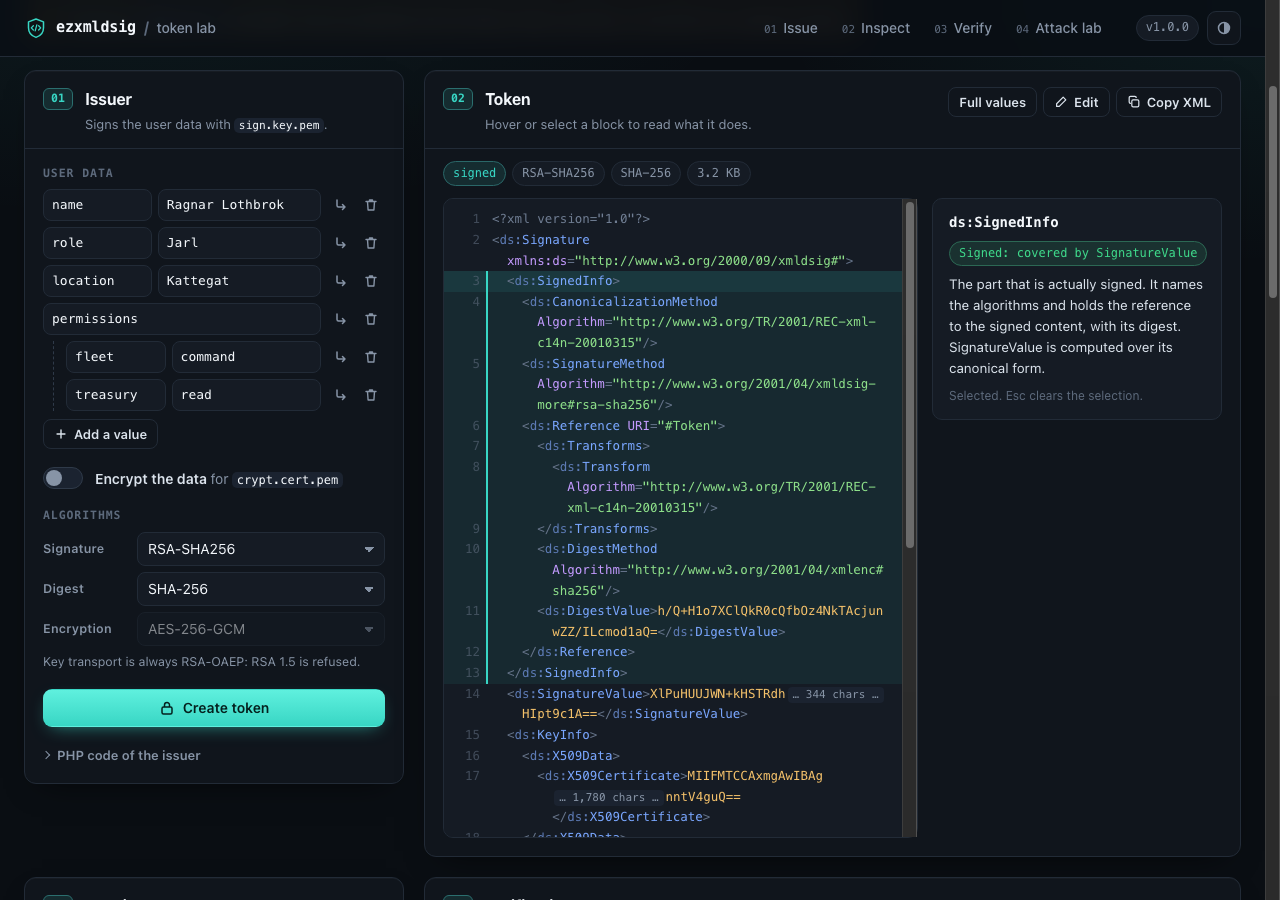
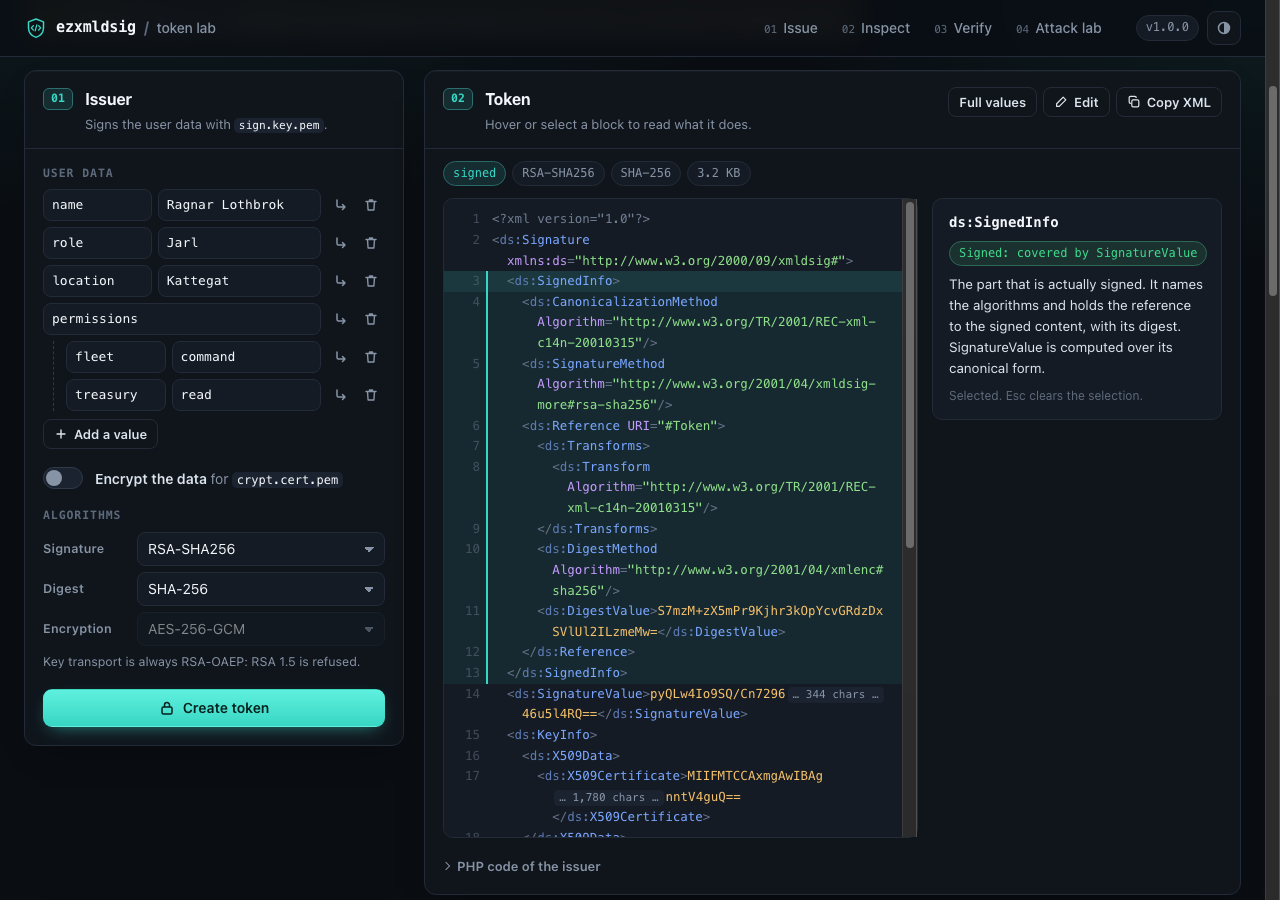
Show the PHP code of the issuer under the token in the demo
The collapsible PHP code of the issuer moves from the Issuer panel to the
Token panel, below the XML it produced. It now changes only when a token is
created, so it always matches the displayed token; the live preview while
editing the form, and the unused POST /api/issuer-code endpoint, are removed.
The screenshot is regenerated.

diff --git a/demo/public/app.js b/demo/public/app.js
@@ -268,7 +268,7 @@
     list.forEach(function (entry) {
       const keyInput = el('input', {
         attrs: { type: 'text', name: 'key-' + entry.id, value: entry.key, 'aria-label': 'Key', autocomplete: 'off', spellcheck: 'false' },
-        on: { input: function () { entry.key = keyInput.value; onDataChange(); } }
+        on: { input: function () { entry.key = keyInput.value; } }
       });
       const row = el('div', { class: 'data-row' + (entry.children ? ' is-group' : '') }, [
         el('div', { class: 'data-key' }, [keyInput])
@@ -276,7 +276,7 @@
       if (!entry.children) {
         const valueInput = el('input', {
           attrs: { type: 'text', name: 'value-' + entry.id, value: entry.value, 'aria-label': 'Value of ' + (entry.key || 'this key'), autocomplete: 'off', spellcheck: 'false' },
-          on: { input: function () { entry.value = valueInput.value; onDataChange(); } }
+          on: { input: function () { entry.value = valueInput.value; } }
         });
         row.appendChild(el('div', { class: 'data-value' }, [valueInput]));
       }
@@ -288,7 +288,6 @@
             if (!entry.children) entry.children = [];
             entry.children.push({ id: ++entryCounter, key: 'key' + (entry.children.length + 1), value: 'value', children: null });
             renderDataEditor();
-            onDataChange();
           }
         }
       }, [icon('child')]);
@@ -305,7 +304,6 @@
               found.parent.value = 'value';
             }
             renderDataEditor();
-            onDataChange();
           }
         }
       }, [icon('trash')]);
@@ -339,20 +337,6 @@
     const box = $('issuer-error');
     box.textContent = message || '';
     box.hidden = !message;
-  }
-
-  const refreshIssuerCode = debounce(async function () {
-    try {
-      const result = await api('/api/issuer-code', issuerInput());
-      renderPhp($('issuer-code'), result.code);
-      showIssuerError(null);
-    } catch (e) {
-      showIssuerError(e.message);
-    }
-  }, 250);
-
-  function onDataChange() {
-    refreshIssuerCode();
   }
 
   function syncEncryptionSelect() {
@@ -1463,12 +1447,10 @@
         refreshReceiverCode();
       }
       updateAlgoHint();
-      refreshIssuerCode();
     });
     $('add-field').addEventListener('click', function () {
       entries.push({ id: ++entryCounter, key: 'key' + (entries.length + 1), value: 'value', children: null });
       renderDataEditor();
-      onDataChange();
       const inputs = $('data-editor').querySelectorAll('.data-key input');
       if (inputs.length) inputs[inputs.length - 1].focus();
     });

diff --git a/demo/public/index.html b/demo/public/index.html
@@ -110,14 +110,6 @@
             <svg aria-hidden="true"><use href="#i-lock"/></svg>Create token
           </button>
         </div>
-
-        <details class="code-details">
-          <summary>PHP code of the issuer</summary>
-          <div class="code-block">
-            <button type="button" class="icon-btn icon-btn-sm copy-code" data-copy="issuer-code" aria-label="Copy the PHP code of the issuer"><svg aria-hidden="true"><use href="#i-copy"/></svg></button>
-            <pre class="code" id="issuer-code"></pre>
-          </div>
-        </details>
       </form>
     </section>
 
@@ -151,6 +143,13 @@
           </div>
           <aside class="annotation" id="annotation" aria-live="polite"></aside>
         </div>
+        <details class="code-details">
+          <summary>PHP code of the issuer</summary>
+          <div class="code-block">
+            <button type="button" class="icon-btn icon-btn-sm copy-code" data-copy="issuer-code" aria-label="Copy the PHP code of the issuer"><svg aria-hidden="true"><use href="#i-copy"/></svg></button>
+            <pre class="code" id="issuer-code"></pre>
+          </div>
+        </details>
       </div>
     </section>
 

diff --git a/demo/src/Api.php b/demo/src/Api.php
@@ -49,7 +49,6 @@ final class Api
             $routes = [
                 'GET /api/config' => 'config',
                 'POST /api/issue' => 'issue',
-                'POST /api/issuer-code' => 'issuerCode',
                 'POST /api/verify' => 'verify',
                 'POST /api/receiver-code' => 'receiverCode',
                 'POST /api/replay/clear' => 'clearReplay',
@@ -176,22 +175,6 @@ final class Api
             'encrypted' => $encrypt,
             'code' => Issuer::phpCode($data, $encrypt, $algorithms),
         ];
-    }
-
-    /**
-     * POST /api/issuer-code {data, encrypt, algorithms}: the PHP code of the
-     * issuer.
-     */
-    private function issuerCode(array $input)
-    {
-        $data = self::field($input, 'data', 'array', Issuer::DEFAULT_DATA);
-        Issuer::checkData($data);
-
-        return ['code' => Issuer::phpCode(
-            $data,
-            self::field($input, 'encrypt', 'bool', false),
-            self::field($input, 'algorithms', 'array', [])
-        )];
     }
 
     /**
